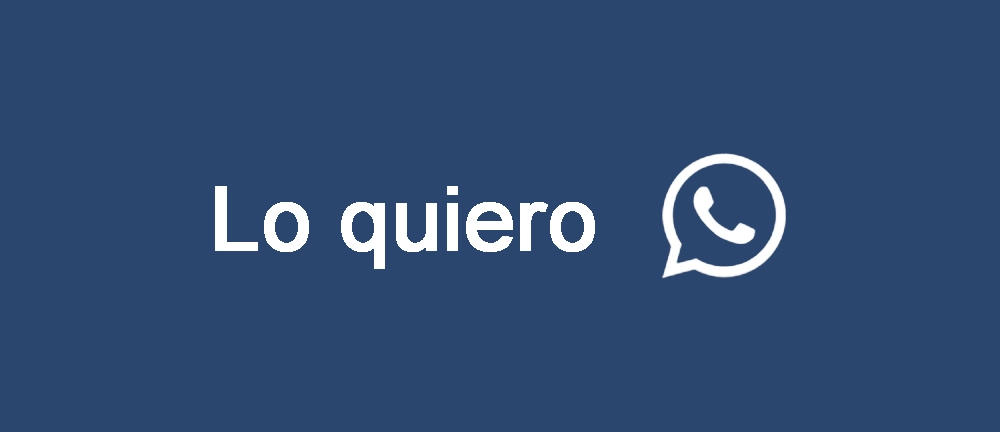
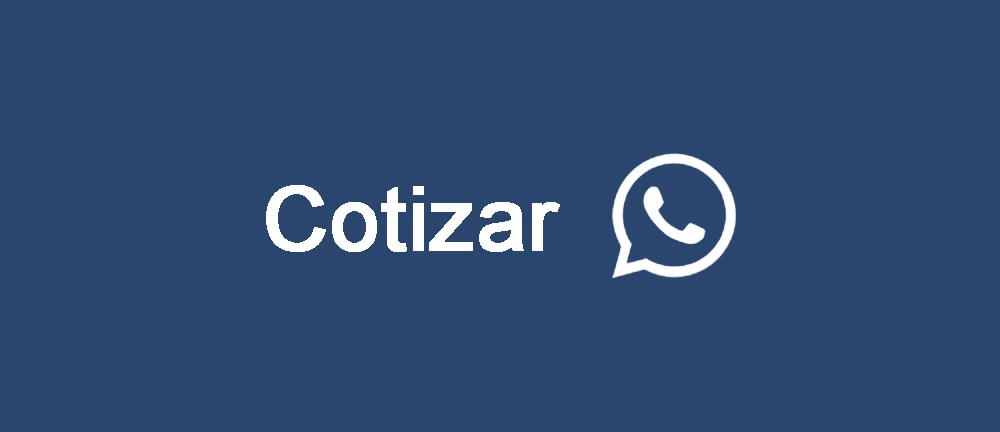
s

Changed region(s): [[0.217, 0.331, 0.806, 0.662]]

diff --git a/index.html b/index.html
@@ -102,7 +102,7 @@ a:focus, button:focus {
   display: inline-block;
   padding: 8px 6%;
 
-  background-image: url("img/WhatsApp.webp");
+  background-image: url("img/WhatsApp1.webp");
   background-size: cover;
   background-position: center;
   background-repeat: no-repeat;
@@ -117,7 +117,7 @@ a:focus, button:focus {
 
 .boton1 {
   display: inline-block;
-  padding: 15px 15%;
+  padding: 12px 10%;
 
   background-image: url("img/WhatsApp\ copia.webp");
   background-size: cover;
@@ -289,7 +289,7 @@ html {
   </a>
 </div>
 
-<div class="imagen-abajo">
+<div class="imagen-abajo" id="seccion2">
   <img src="img/incluye1.webp" alt="Imagen inferior">
 </div>
 
@@ -305,7 +305,7 @@ html {
 
 </div>
 
-<div class="imagen-abajo" id="seccion2">
+<div class="imagen-abajo">
   <img src="img/libro.webp" alt="Imagen inferior">
 </div>
 
